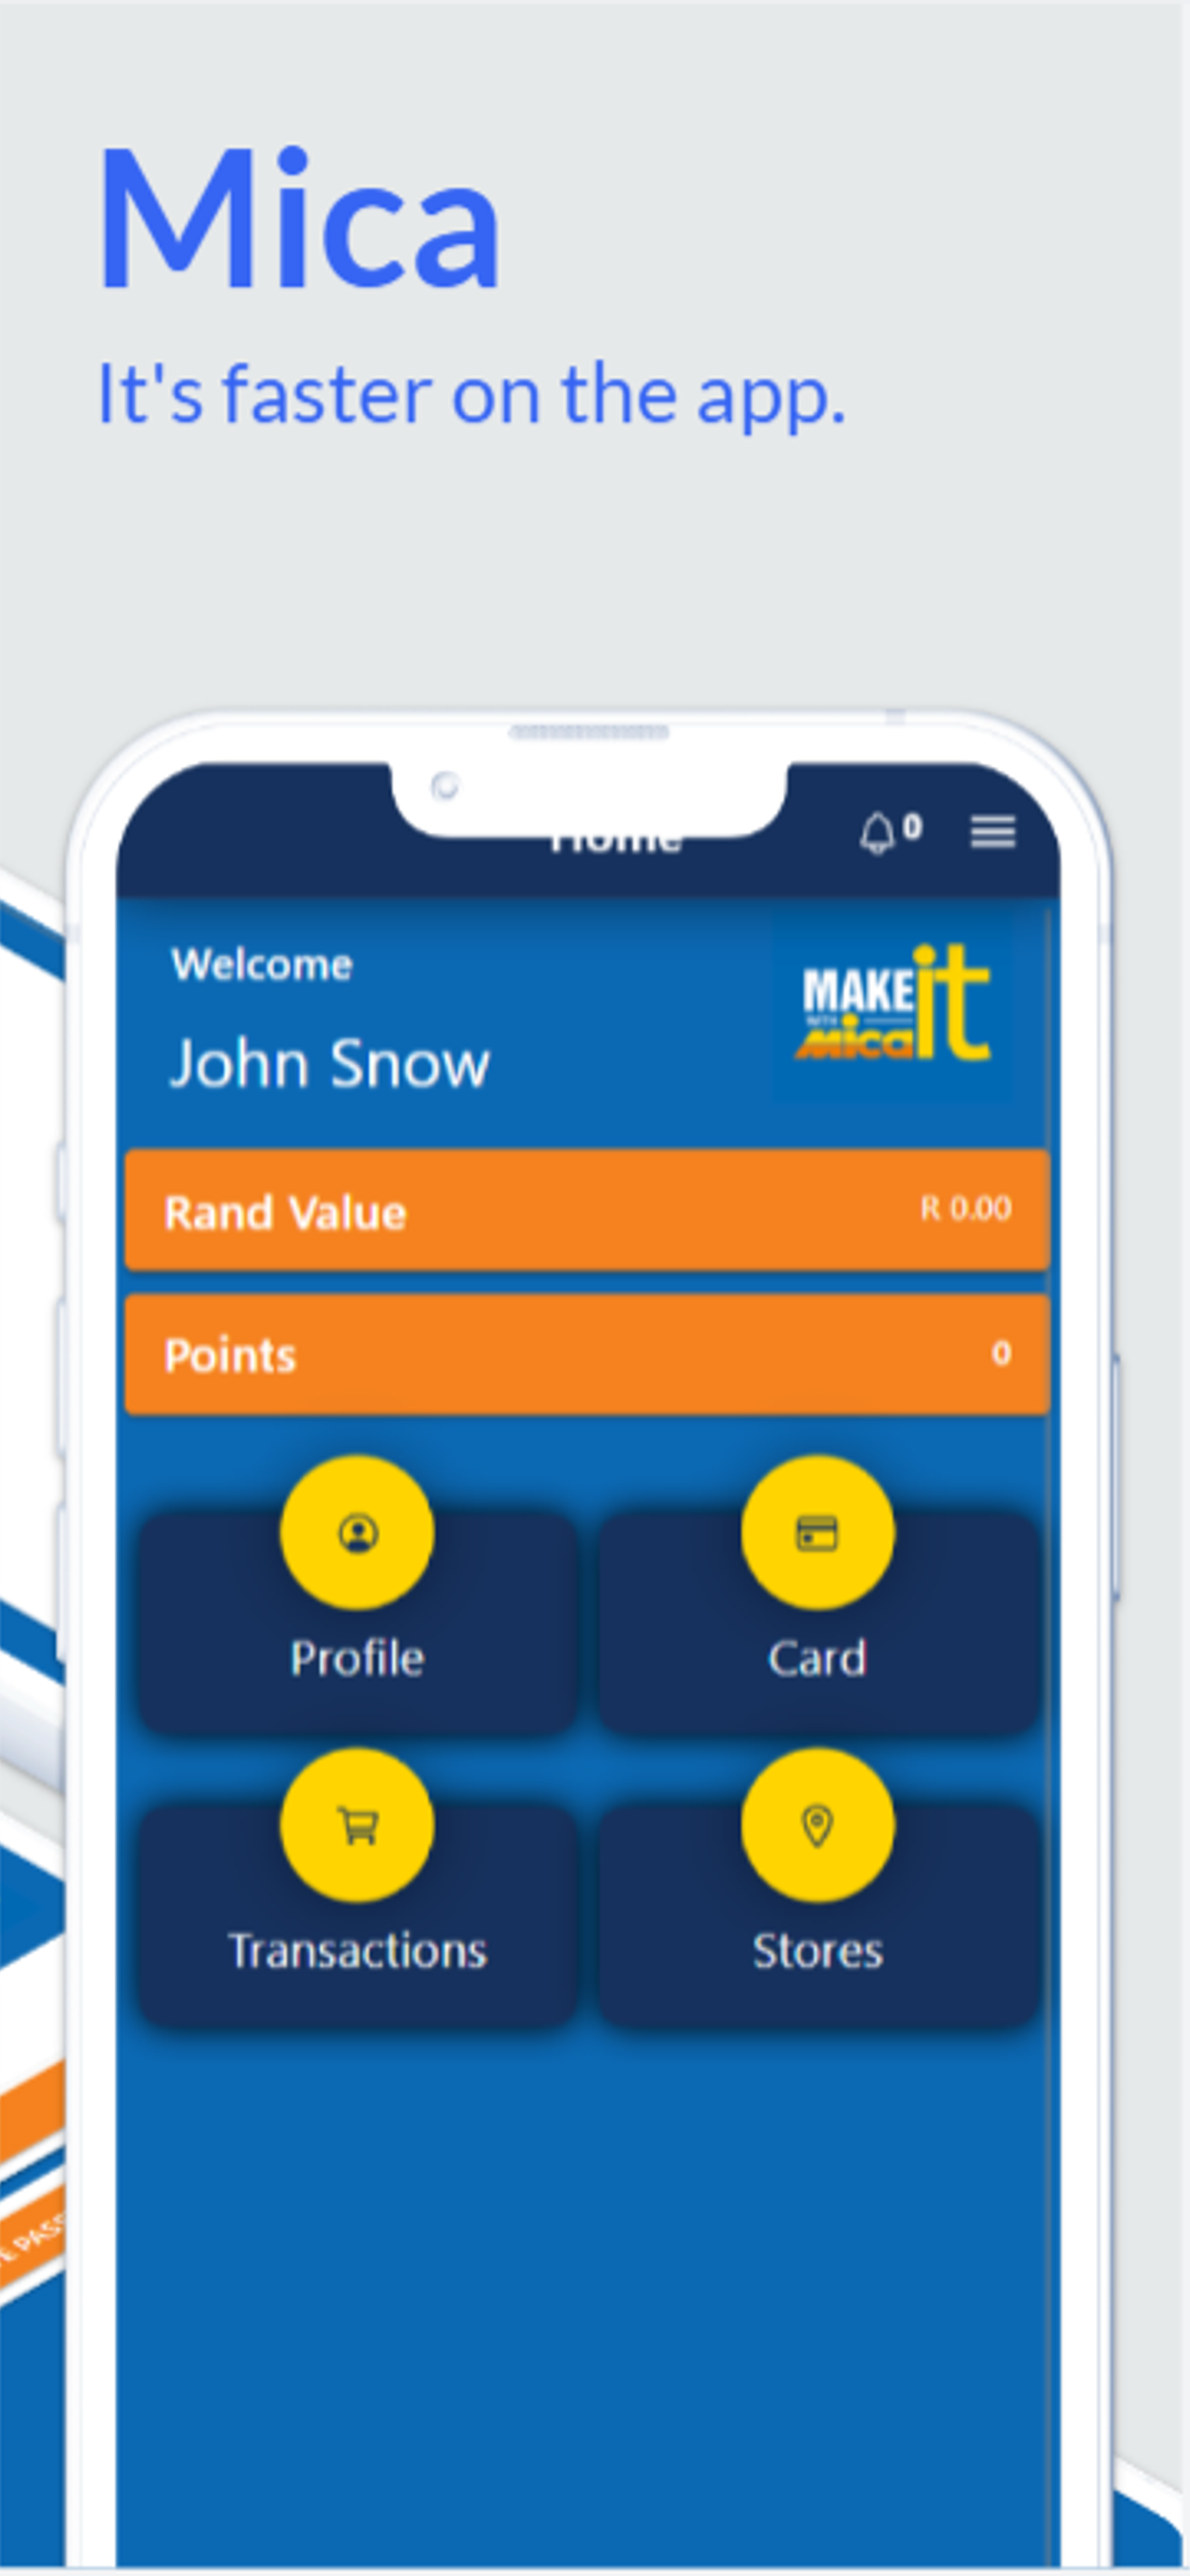
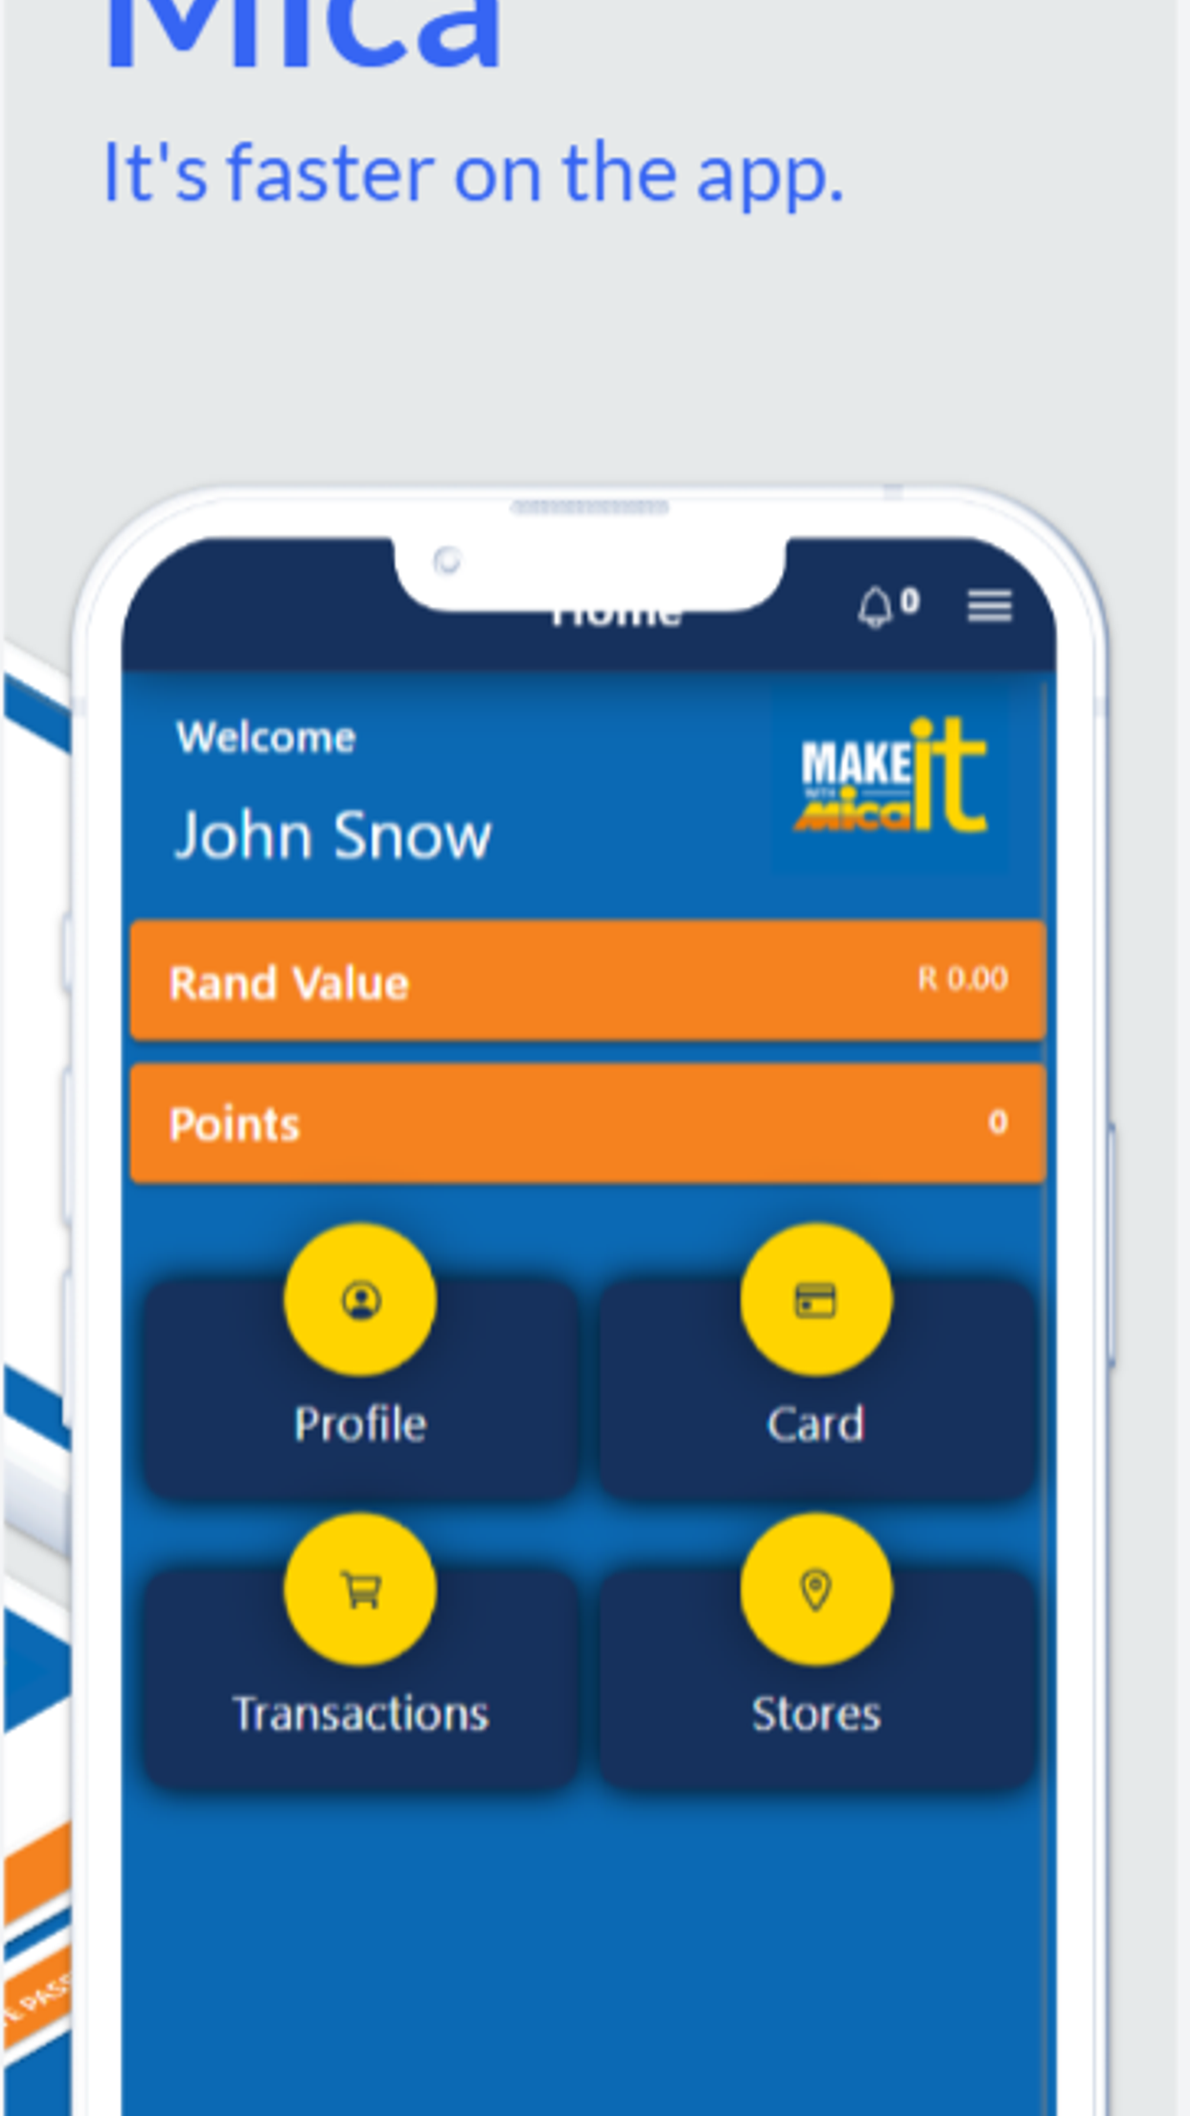
updates

diff --git a/sharp.js b/sharp.js
@@ -17,7 +17,7 @@ async function resizeImages(inputFolder, outputFolder1, outputFolder2) {
 
       // Resize image to 2688x1242
       const outputFilename2 = `${outputFolder2}/${file}`;
-      await sharp(inputPath).resize(1242, 2688).toFile(outputFilename2);
+      await sharp(inputPath).resize(1242, 2208).toFile(outputFilename2);
     }
 
     console.log('Image resizing completed successfully.');
